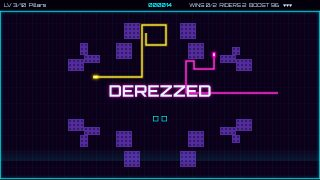
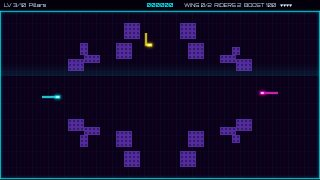
Game overview menu: review fixes (task z53)
- The page behind the open menu is inert and Tab wraps inside the menu, so
  nothing under it can be focused or pressed.
- Focus returns to the button that opened the menu, also after a game.
- Enter on a focused header game button presses it instead of opening the
  selected post (shared.js).
- No second header button below 600px: it covered the site title or fell
  off screen in several themes. The splash keeps its button.
- Tests: Tab containment, inert page, buttons exactly once, keyboard open
  from the header, focus return; blurb regexes accept escaped apostrophes;
  the tap-launch helper waits for the splash button to stop moving.
- New neon picture (the old one showed a crash banner); comments corrected;
  two test functions split.

diff --git a/internal/generator/templates/shared/arcade.js b/internal/generator/templates/shared/arcade.js
@@ -115,19 +115,34 @@
     }
 
     function onMenuClick(e) {
-        // Nothing in here may reach the splash's click-to-dismiss handler.
+        // The menu handles its own clicks; the page's document-level click
+        // listeners must not act on them as well.
         e.stopPropagation();
         var c = e.target.closest('.sno-arcade-card');
         if (c) { play(c.getAttribute('data-theme')); return; }
         if (e.target.closest('.sno-arcade-close') || !e.target.closest('.sno-arcade-panel')) closeMenu();
     }
 
+    // The rest of the page is made inert while the menu is up: Tab stays
+    // inside the menu, and nothing behind it (the splash buttons, the theme
+    // picker, the fx row) can be operated under it.
+    function setPageInert(on) {
+        Array.prototype.forEach.call(document.body.children, function (n) {
+            if (n === root) return;
+            if (on && !n.inert) { n.inert = true; n.setAttribute('data-sno-arcade-inert', ''); }
+            else if (!on && n.hasAttribute('data-sno-arcade-inert')) { n.inert = false; n.removeAttribute('data-sno-arcade-inert'); }
+        });
+    }
+
+    // `focusTheme` is given when the menu comes back after a game; the
+    // element to hand focus to on closing is then still the original one.
     function openMenu(focusTheme) {
         if (root || G.active) return false;
-        opener = document.activeElement;
+        if (!focusTheme || !opener) opener = document.activeElement;
         root = build();
         document.body.appendChild(root);
         document.body.classList.add('sno-arcade-on');
+        setPageInert(true);
         var first = (focusTheme && root.querySelector('[data-theme="' + focusTheme + '"]')) || root.querySelector('.sno-arcade-card');
         (first || root).focus();
         return true;
@@ -135,6 +150,7 @@
 
     function removeMenu() {
         if (!root) return;
+        setPageInert(false);
         root.remove();
         root = null;
         document.body.classList.remove('sno-arcade-on');
@@ -182,12 +198,25 @@
         if (next) { next.focus(); next.scrollIntoView({ block: 'nearest' }); }
     }
 
+    // Tab past the last control (or Shift+Tab before the first) would leave
+    // the page for the browser's own toolbar; it goes round instead.
+    function wrapTab(e) {
+        var stops = root.querySelectorAll('button');
+        var first = stops[0], last = stops[stops.length - 1];
+        var edge = e.shiftKey ? first : last;
+        if (document.activeElement !== edge && root.contains(document.activeElement)) return;
+        e.preventDefault();
+        (e.shiftKey ? last : first).focus();
+    }
+
     // While the menu is open no key may reach the blog's shortcuts or the
-    // splash. Tab, Enter and Space keep their normal meaning on the cards.
+    // splash. Tab, Enter and Space keep their normal meaning on the cards;
+    // the page behind is inert, so Tab finds nothing to stop at out there.
     function onKeyDown(e) {
         if (!root) return;
         e.stopImmediatePropagation();
         if (e.code === 'Escape') { e.preventDefault(); closeMenu(); return; }
+        if (e.code === 'Tab') { wrapTab(e); return; }
         if (/^Arrow/.test(e.code)) { e.preventDefault(); moveFocus(e.code); }
     }
 

diff --git a/internal/generator/templates/shared/shared.css b/internal/generator/templates/shared/shared.css
@@ -1082,21 +1082,28 @@ body[data-sno-theme="dos"] .post-text img { animation:sno-matrix-decode 0.8s eas
 /* A phone held upright has no room for the game's name in the header (it
    pushed the feed link off screen or sat on the site title): icon only. */
 @media (max-width: 600px) {
-  .header-game-btn, .header-arcade-btn { min-width:44px; padding:0.5rem; flex:0 0 auto; }
+  .header-game-btn { min-width:44px; padding:0.5rem; flex:0 0 auto; }
   .header-game-btn .sno-game-launch-text { display:none; }
 }
-/* The "All games" button beside it gives up its words much earlier: the
-   header has to hold two buttons now. */
+/* The "All games" button beside it gives up its words much earlier, since
+   the header has to hold two buttons now, and on a phone held upright it
+   goes altogether: several themes have no room for a second button there
+   (it sat on the site title or fell off the screen). The splash keeps its
+   own "All games" button at every size. */
 @media (max-width: 1100px) {
   .header-arcade-btn .sno-game-launch-text { display:none; }
+}
+@media (max-width: 600px) {
+  .header-arcade-btn { display:none; }
 }
 .sno-touch .header-game-btn, .sno-touch .header-arcade-btn { min-height:44px; padding:0.5rem 0.8rem; font-size:0.9rem; }
 .sno-touch .splash-game-btn, .sno-touch .splash-arcade-btn { min-height:48px; padding:0.7rem 1.2rem; font-size:1rem; }
 body.sno-game-on, body.sno-arcade-on { overflow:hidden; }
 /* === Game overview menu (arcade.js) ===
    One card per game. It brings its own dark panel and a plain system font
-   instead of the theme's, so the text reads the same on every theme. Below
-   the game overlay in source order, so a game started from it covers it. */
+   instead of the theme's, so the text reads the same on every theme. It
+   shares the game overlay's layer; the two are never up together (the menu
+   is taken down before a game starts and put back when it ends). */
 #sno-arcade {
   position:fixed; inset:0; z-index:10000; overflow-y:auto; overscroll-behavior:contain;
   background:rgba(4,5,10,0.9); color:#f2f3f7; padding:1rem;

diff --git a/internal/generator/templates/shared/shared.js b/internal/generator/templates/shared/shared.js
@@ -2262,7 +2262,11 @@
                 if (nextPageURL) { playNavSound(); if (window.snonuxPageEffect) window.snonuxPageEffect(); window.location.href = nextPageURL; }
                 else { bounceEffect('right'); }
                 e.preventDefault(); break;
-            case 'Enter': openPostAt(currentIndex, true); e.preventDefault(); break;
+            case 'Enter':
+                // On a focused game button Enter presses that button, as
+                // Space does; everywhere else it opens the selected post.
+                if (e.target.closest && e.target.closest('.sno-game-launch, .sno-arcade-open')) break;
+                openPostAt(currentIndex, true); e.preventDefault(); break;
             case 'w': {
                 toggleWildMode();
                 e.preventDefault(); break;

diff --git a/internal/generator/games_test.go b/internal/generator/games_test.go
@@ -199,8 +199,21 @@ func TestRun_writesGameAssets(t *testing.T) {
 		"themes/breakout/game-thumb.jpg": {"JFIF"},
 		"themes/breakout/theme.css":      {""},
 	}
+	checkOutputContains(t, out, wantIn)
+
+	// The engine is a shared asset: it must not be duplicated into themes.
+	if _, err := os.Stat(filepath.Join(out, "themes", "neon", "games.js")); !os.IsNotExist(err) {
+		t.Errorf("themes/neon/games.js should not exist (err=%v)", err)
+	}
+}
+
+// checkOutputContains reads each named file below dir and requires its
+// needles to appear in it, in the order given.
+func checkOutputContains(t *testing.T, dir string, wantIn map[string][]string) {
+	t.Helper()
+
 	for name, needles := range wantIn {
-		data, err := os.ReadFile(filepath.Join(out, filepath.FromSlash(name)))
+		data, err := os.ReadFile(filepath.Join(dir, filepath.FromSlash(name)))
 		if err != nil {
 			t.Errorf("%s: %v", name, err)
 			continue
@@ -215,10 +228,5 @@ func TestRun_writesGameAssets(t *testing.T) {
 			}
 			rest = rest[at+len(needle):]
 		}
-	}
-
-	// The engine is a shared asset: it must not be duplicated into themes.
-	if _, err := os.Stat(filepath.Join(out, "themes", "neon", "games.js")); !os.IsNotExist(err) {
-		t.Errorf("themes/neon/games.js should not exist (err=%v)", err)
 	}
 }

diff --git a/internal/generator/arcade_test.go b/internal/generator/arcade_test.go
@@ -17,8 +17,8 @@ const gameThumbName = "game-thumb.jpg"
 // game.js declares for itself.
 var (
 	blurbsBlock = regexp.MustCompile(`(?s)var BLURBS = \{(.*?)\};`)
-	blurbEntry  = regexp.MustCompile(`([a-z0-9]+): '([^']*)'`)
-	gameBlurb   = regexp.MustCompile(`blurb: '([^']*)'`)
+	blurbEntry  = regexp.MustCompile(`([a-z0-9]+): '((?:[^'\\]|\\.)*)'`)
+	gameBlurb   = regexp.MustCompile(`blurb: '((?:[^'\\]|\\.)*)'`)
 )
 
 // menuBlurbs returns theme → blurb as listed in arcade.js; nil when the
@@ -38,8 +38,9 @@ func menuBlurbs(arcade string) map[string]string {
 func TestMenuBlurbs_parsesBlurbsBlock(t *testing.T) {
 	t.Parallel()
 
-	got := menuBlurbs("var BLURBS = {\n  neon: 'Box them in.',\n  dos: 'Dig.'\n};")
-	if len(got) != 2 || got["neon"] != "Box them in." || got["dos"] != "Dig." {
+	// An escaped apostrophe does not end a blurb.
+	got := menuBlurbs("var BLURBS = {\n  neon: 'Box them in.',\n  dos: 'Don\\'t dig.'\n};")
+	if len(got) != 2 || got["neon"] != "Box them in." || got["dos"] != `Don\'t dig.` {
 		t.Errorf("menuBlurbs = %v", got)
 	}
 	if menuBlurbs("var OTHER = {};") != nil {

diff --git a/internal/generator/generator.go b/internal/generator/generator.go
@@ -275,8 +275,8 @@ func jsonStringOrNull(s string) template.JS {
 }
 
 // writeSharedAssets dumps shared.css, shared.js, games.js (the arcade engine)
-// and arcade.js (the menu of all games) to the output dir. They are linked from every page and cached by
-// browsers across navigations.
+// and arcade.js (the menu of all games) to the output dir. They are linked
+// from every page and cached by browsers across navigations.
 func writeSharedAssets(outputDir string) error {
 	assets := []struct {
 		name string

diff --git a/README.md b/README.md
@@ -100,7 +100,8 @@ music, progress saved in a cookie. Start it from the **Play** button on the
 splash screen, the button in the header, the `game` button in the fx row, or
 with the `a` key; `Esc` quits. **All games**, next to the splash and header
 buttons, opens a menu with a picture and a short description of every theme's
-game, so any of them can be played from any theme. On a phone the game goes fullscreen with an
+game, so any of them can be played from any theme (on a narrow phone the
+button is on the splash only). On a phone the game goes fullscreen with an
 on-screen pad beside (or below) the playfield, and `✕` quits.
 
 The shared engine is `internal/generator/templates/shared/games.js`; each

diff --git a/docs/games.md b/docs/games.md
@@ -279,7 +279,9 @@ a copy of another game's.
 game's `blurb`. A card starts that game on whatever theme is active, and
 quitting it returns to the menu (the engine fires a `sno-game-quit` event on
 `document` when a game closes). `Esc`, the close button or a click beside the
-panel closes it; the arrow keys walk the cards.
+panel closes it; the arrow keys walk the cards. While it is open the page
+behind is `inert`. On a screen narrower than 600px only the splash has the
+**All games** button: several themes' headers have no room for a second one.
 
 A new or changed game needs two things for it:
 
